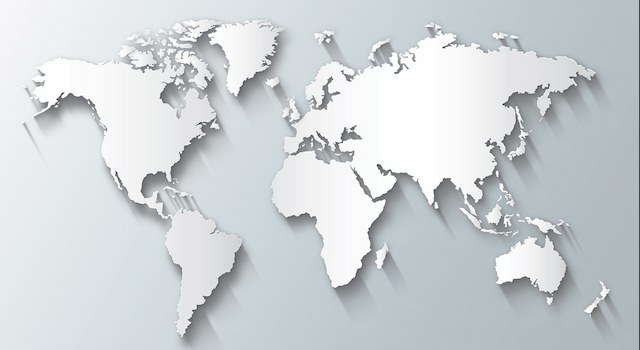
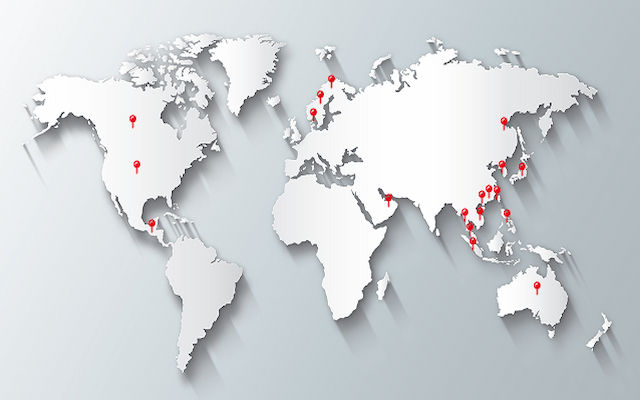
8/25

diff --git a/sub1/sub1_1.html b/sub1/sub1_1.html
@@ -241,7 +241,20 @@
                                 신선식품 유통에혁신을 가져왔습니다.
                             </p>
                         </div>
-                        <div class="global_expansion"></div>
+                        <figure class="global_expansion">
+                            <img
+                                src="./images/content1/map.jpg"
+                                alt="전세계 매장 분포도 이미지"
+                            />
+                            <figcaption>
+                                <p class="global_text1">1989.05.06 서울 24시간 편의점 오픈</p>
+                                <p class="global_text2">
+                                    세븐일레븐은 <br />
+                                    <span> 전 세계 19개국의 83,000여개 매장</span>을 통해 <br />
+                                    사람들에게 따뜻한 행복을 전하고 있습니다.
+                                </p>
+                            </figcaption>
+                        </figure>
                     </div>
                 </div>
             </article>
@@ -257,7 +270,7 @@
                         alt="풋터로고"
                     />
                     <address>
-                        <p>서울특별시 강동구 천호대로 1077 <br />이스트센트럴타워 16~18층</p>
+                        <p>서울특별시 강동구 천호대로 1077 이스트센트럴타워 16~18층</p>
                         <p>세븐일레븐 고객센터 : 1577-0711</p>
                         <p class="copy font-eng">
                             Copyright &copy;2025 NamKyu Kim - Portfolio Project<br />

diff --git a/sub1/css/sub1_1.css b/sub1/css/sub1_1.css
@@ -5,24 +5,67 @@
 }
 
 #content .global_seven_title h3 {
-    font-size: 30px;
+    font-size: 24px;
     font-weight: 600;
     margin-bottom: 10px;
     text-align: center;
 }
 
 #content .global_seven_title p {
-    font-size: 16px;
-    color: #999;
+    font-size: 12px;
+    color: #666;
     text-align: center;
+    margin-bottom: 30px;
 }
 
 #content .global_expansion {
-    width: 100%;
-    height: 350px;
     position: relative;
-    background-image: url(../images/content1/map.jpg);
-    background-size: contain;
-    background-position: center;
-    background-repeat: no-repeat;
+    border-radius: 10px;
+    box-shadow: 5px 10px 20px rgba(0, 0, 0, 0.2);
+}
+
+#content .global_expansion img {
+    width: 100%;
+    display: block;
+    object-fit: contain;
+}
+
+#content .global_expansion .global_text {
+    position: absolute;
+    color: #fff;
+    text-align: center;
+    text-shadow: 2px 2px 10px rgba(0, 0, 0, 0.7);
+}
+
+#content .global_expansion .global_text1 {
+    position: absolute;
+    top: 27%;
+    right: 2%;
+    color: #fff;
+    background: var(--font-color-main);
+    padding: 5px 8px;
+    border-radius: 15px;
+    font-size: 10px;
+    font-weight: bold;
+    opacity: 1;
+}
+
+#content .global_expansion .global_text2 {
+    position: absolute;
+    top: 63%;
+    left: 2%;
+    font-size: 16px;
+    font-weight: 600;
+    line-height: 1.6rem;
+    text-align: justify;
+    opacity: 1;
+}
+#content .global_expansion .global_text2 span {
+    color: var(--font-color-main);
+}
+
+#content .global_expansion .global_text1.active,
+#content .global_expansion .global_text2.active {
+    opacity: 1;
+    transform: translateY(0);
 }

diff --git a/sub1/css/sub1common.css b/sub1/css/sub1common.css
@@ -1,6 +1,6 @@
 .sub_visual {
     width: 100%;
-    height: 250px;
+    height: 200px;
     position: relative;
     top: 0;
     left: 50%;
@@ -12,12 +12,13 @@
     width: 100%;
     height: 100%;
     object-fit: cover;
+    object-position: center;
 }
 
 .sub_visual span {
     width: 100%;
     display: block;
-    font-size: 24px;
+    font-size: 20px;
     color: #fff;
     font-weight: 700;
     position: absolute;
@@ -74,14 +75,14 @@
 }
 
 #content .title_area h2 {
-    font-size: 40px;
+    font-size: 30px;
     font-weight: 700;
     text-align: center;
     margin-bottom: 10px;
 }
 
 #content .title_area p {
-    font-size: 20px;
+    font-size: 14px;
     font-weight: 500;
     color: #999;
     text-align: center;
@@ -91,11 +92,11 @@
 #content .title_area p::after {
     content: "";
     position: absolute;
-    top: 100px;
+    top: 70px;
     left: 50%;
     transform: translateX(-50%);
     display: block;
     width: 4px;
-    height: 100px;
+    height: 80px;
     background: var(--font-color-main);
 }

diff --git a/index.html b/index.html
@@ -534,7 +534,7 @@
                         alt="풋터로고"
                     />
                     <address>
-                        <p>서울특별시 강동구 천호대로 1077 <br />이스트센트럴타워 16~18층</p>
+                        <p>서울특별시 강동구 천호대로 1077 이스트센트럴타워 16~18층</p>
                         <p>세븐일레븐 고객센터 : 1577-0711</p>
                         <p class="copy font-eng">
                             Copyright &copy;2025 NamKyu Kim - Portfolio Project<br />

diff --git a/sub1/js/global.js b/sub1/js/global.js
@@ -1,0 +1,7 @@
+$(document).ready(function(){
+
+  const $text1 = $(".global_text1");
+  const $text2 = $(".global_text2");
+
+  
+})
